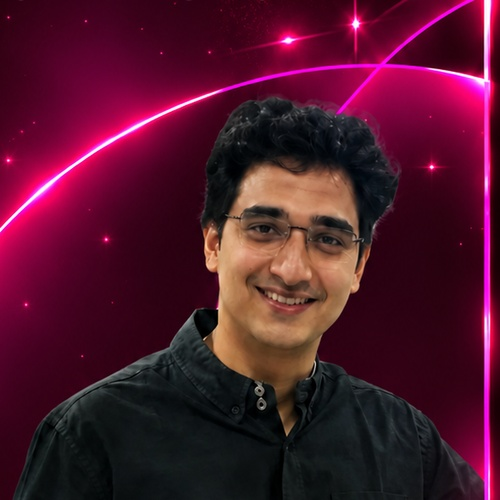
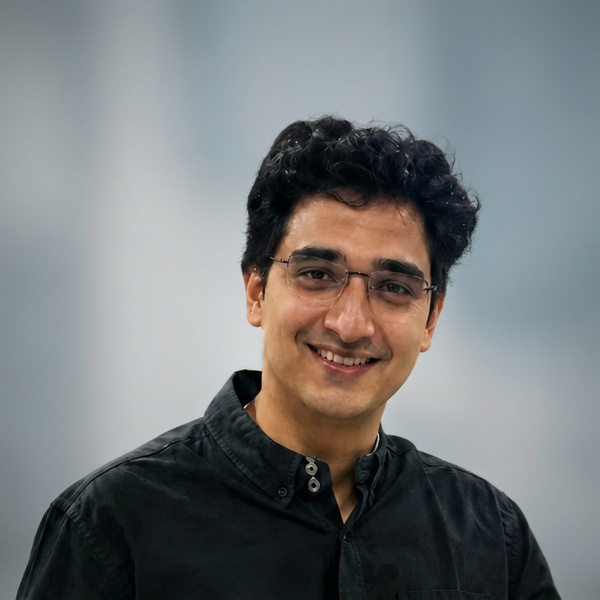
Update Aditya Marathe portrait with studio background removal and add full executive bio

diff --git a/data/speakers.ts b/data/speakers.ts
@@ -161,10 +161,10 @@ export const speakers: Speaker[] = [
   },
   {
     name: "Mr. Aditya Marathe",
-    affiliation: "Nugenix Robotics",
+    affiliation: "Founder & CEO, Nugenix Robotics",
     type: "Industrial",
     photo: "/images/speakers/aditya-marathe.jpg",
-    bio: "Speaker at the TRS-DSAI 2026 International Workshop representing Nugenix. Specializes in robotic manipulation, ROS-based autonomous platforms, and intelligent automation technologies with hands-on applications across industrial robotics and healthcare systems.",
+    bio: "Founder and CEO of Nugenix Robotics, an enterprise specializing in advanced robotics research, intelligent automation platforms, and robotic manipulation systems. His technical expertise spans the Robot Operating System (ROS & ROS 2), multi-axis collaborative robotic arms, autonomous motion planning, and sensor integration. As an industry practitioner and resource person across premier engineering institutions in India, he leads technology development and hands-on workshops in collaborative robotics, assistive healthcare applications, and real-world industrial automation.",
   },
 ];
 

diff --git a/data/sponsors.ts b/data/sponsors.ts
@@ -86,6 +86,7 @@ export const bronzeSponsors: Sponsor[] = [
     description:
       "Nugenix Robotics works on robotic manipulation, ROS-based systems, and intelligent automation, with hands-on exposure to robotic arms and manipulation tasks.",
     logo: "/images/logos/nugenix.jpeg",
+    url: "https://nugenix.co.in/",
   },
   {
     name: "LABELLERR AI",
